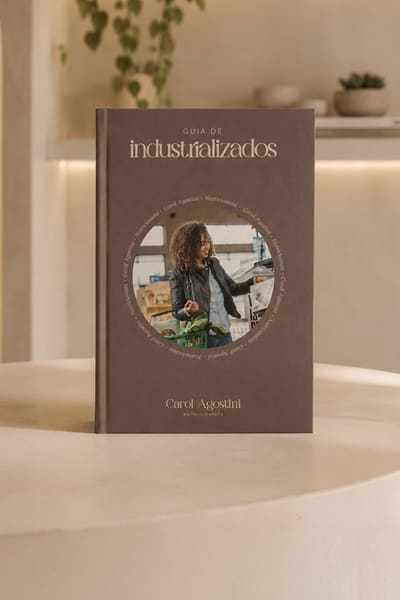
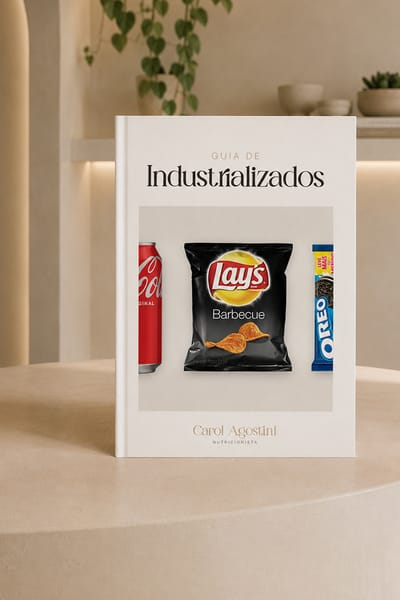
Publish current marketing site
Update the e-books card photo, center the booking card and footer
columns on phones, show globe pin labels, and match footer logo gap
to section padding.

diff --git a/src/styles/global.css b/src/styles/global.css
@@ -1525,7 +1525,8 @@ html.is-nav-menu-open {
 }
 
 .footer-top {
-  padding: 4rem var(--page-inset);
+  --footer-pad-y: 4rem;
+  padding: var(--footer-pad-y) var(--page-inset);
   display: grid;
   grid-template-columns: minmax(0, 1.2fr) minmax(0, 0.9fr) minmax(0, 1fr);
   gap: 3rem;
@@ -1759,16 +1760,6 @@ html.is-nav-menu-open {
   .presence-globe {
     width: min(24rem, 88vw);
   }
-  .presence-pin-label {
-    display: none;
-  }
-  .presence-pin.is-labeled .presence-pin-mark {
-    width: 0.4rem;
-    height: 0.4rem;
-    border-radius: 50%;
-    rotate: 0deg;
-    translate: 0 0;
-  }
 
   .nav-brand { display: none; }
   .nav-links { display: none; }
@@ -1962,6 +1953,18 @@ html.is-nav-menu-open {
       rgb(from var(--color-mist) r g b / 0.55) 42%,
       rgb(from var(--color-mist) r g b / 0) 74%
     );
+    text-align: center;
+    justify-items: center;
+  }
+  .booking-box .eyebrow {
+    justify-content: center;
+  }
+  .booking-box .eyebrow::after {
+    content: "";
+    flex: 0 0 2.75rem;
+    height: 1px;
+    background: currentColor;
+    opacity: 0.5;
   }
 
   .site-nav {
@@ -2013,9 +2016,21 @@ html.is-nav-menu-open {
     align-items: flex-start;
   }
   .footer-top {
-    grid-template-columns: 1fr;
-    gap: 2.5rem;
+    grid-template-columns: 1fr 1fr;
+    grid-template-areas:
+      "brand brand"
+      "nav contact";
+    gap: var(--footer-pad-y) 1.5rem;
     text-align: center;
+  }
+  .footer-brand-col {
+    grid-area: brand;
+  }
+  .footer-nav-col {
+    grid-area: nav;
+  }
+  .footer-contact-col {
+    grid-area: contact;
   }
   .footer-col ul {
     align-items: center;
